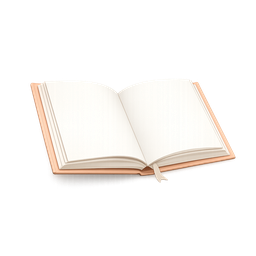
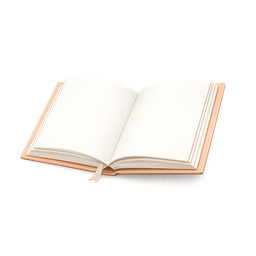
Mirror book illustration and align its tilt with the others
The book's bookmark and spine perspective now read right-to-left,
matching the visual flow of the calculator and checklist. Tilt
direction is also flipped to rotate-6 (right) so all three thumbs lean
the same way on hover.

Changed region(s): [[0.0625, 0.3125, 0.9375, 0.7188], [0.4688, 0.4688, 0.5312, 0.5312], [0.4688, 0.375, 0.5312, 0.4375]]

diff --git a/src/pages/Index.tsx b/src/pages/Index.tsx
@@ -356,7 +356,7 @@ const Index = () => {
                 // Tilt direction on hover. Tailwind needs the full class
                 // string to appear as a source-code literal so the compiler
                 // includes it — listing both directions here is intentional.
-                tilt: "group-hover:-rotate-6",
+                tilt: "group-hover:rotate-6",
               },
               {
                 // Eligibility hook — short, direct question pointing the